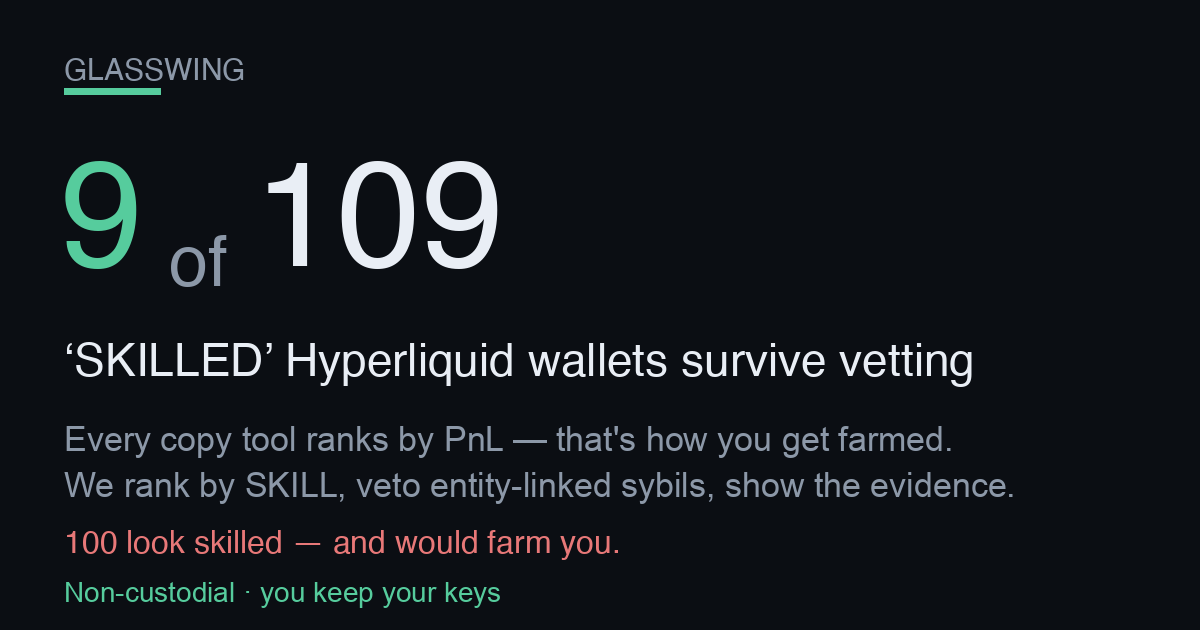
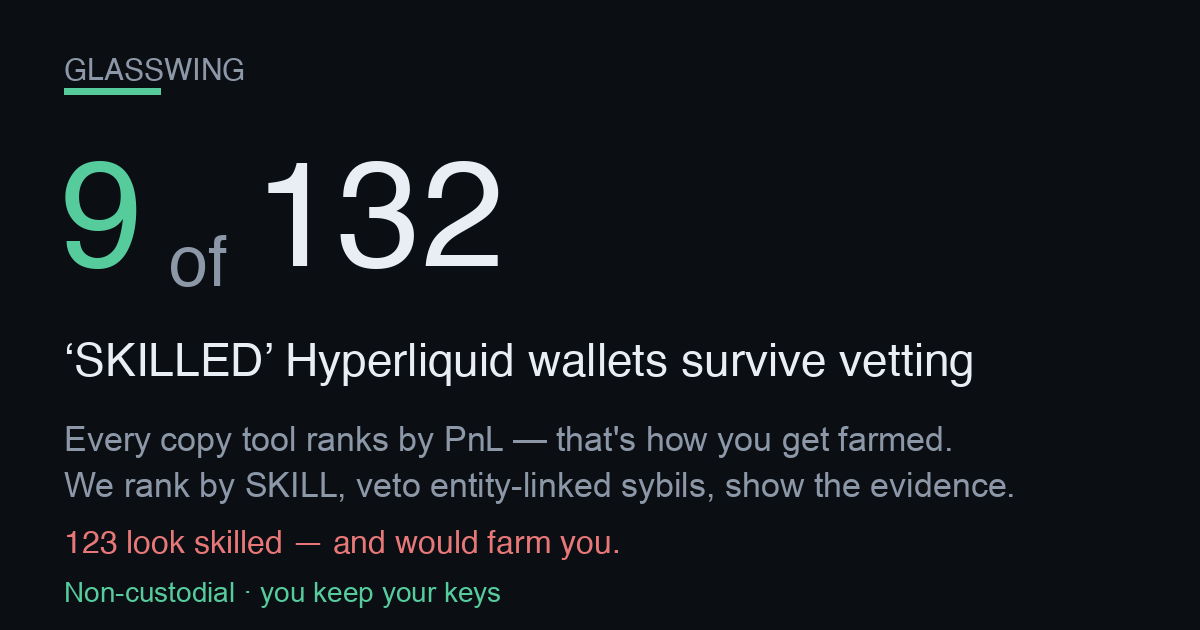
publish funnel 2026-08-02T10:34:24Z

Changed region(s): [[0.2775, 0.2714, 0.4317, 0.4524], [0.0617, 0.8444, 0.0925, 0.8746]]

diff --git a/screener.html b/screener.html
@@ -57,4 +57,4 @@ padding:11px 22px;font-size:15px;font-weight:800;border:1px solid var(--good)}
 footer{margin-top:34px;color:var(--muted);font-size:12px;line-height:1.6;
 border-top:1px solid var(--line);padding-top:16px}
 footer b{color:var(--ink)}
-</style></head><body><div class="wrap"><div class="nav"><a href="./index.html">&larr; Glasswing home</a><span class="sep">|</span><span>Edge Screener</span><span class="sep">|</span><a href="./dex.html">Copy a vetted leader</a></div><div class="hero"><h1>Hyperliquid Edge Screener</h1><div class="sub">Where&rsquo;s the carry, where a maker earns, and what&rsquo;s moving on Hyperliquid &mdash; live, computed from the public API. Bookmark it. Every number below is real and timestamped.</div><div class="stamp">Data as of <b>2026-07-31T08:14:09Z</b> &middot; rendered 2026-07-31T08:14:09Z &middot; 177 perps &middot; 88 HIP-3 (xyz) markets scanned</div></div><h2>Top funding &mdash; the carry table <span class="hint">perps ranked by annualized funding. Positive = longs pay shorts (a delta-neutral short earns it).</span></h2><div class="tblwrap"><table><thead><tr><th>Coin</th><th>Funding / hr</th><th>Annualized</th><th>Who pays</th><th>Open interest</th><th>24h volume</th></tr></thead><tbody><tr><td class="coin">CFX</td><td>-0.0626%</td><td class="neg">-548.5%</td><td><span class="tag shorts">shorts pay</span></td><td>$1.6M</td><td>$1.8M</td></tr><tr><td class="coin">ACE<span class="tag thin" title="Low liquidity/OI &mdash; ADL &amp; liquidation risk; funding can flip">&#9888; thin</span></td><td>-0.0291%</td><td class="neg">-255.3%</td><td><span class="tag shorts">shorts pay</span></td><td>$372K</td><td>$604K</td></tr><tr><td class="coin">BERA</td><td>-0.0114%</td><td class="neg">-99.9%</td><td><span class="tag shorts">shorts pay</span></td><td>$1.3M</td><td>$323K</td></tr><tr><td class="coin">W</td><td>-0.0100%</td><td class="neg">-87.2%</td><td><span class="tag shorts">shorts pay</span></td><td>$1.4M</td><td>$374K</td></tr><tr><td class="coin">SEI</td><td>-0.0070%</td><td class="neg">-61.4%</td><td><span class="tag shorts">shorts pay</span></td><td>$1.4M</td><td>$318K</td></tr><tr><td class="coin">BSV<span class="tag thin" title="Low liquidity/OI &mdash; ADL &amp; liquidation risk; funding can flip">&#9888; thin</span></td><td>-0.0056%</td><td class="neg">-48.8%</td><td><span class="tag shorts">shorts pay</span></td><td>$394K</td><td>$133K</td></tr><tr><td class="coin">MNT<span class="tag thin" title="Low liquidity/OI &mdash; ADL &amp; liquidation risk; funding can flip">&#9888; thin</span></td><td>-0.0052%</td><td class="neg">-45.8%</td><td><span class="tag shorts">shorts pay</span></td><td>$1.7M</td><td>$221K</td></tr><tr><td class="coin">GALA<span class="tag thin" title="Low liquidity/OI &mdash; ADL &amp; liquidation risk; funding can flip">&#9888; thin</span></td><td>-0.0046%</td><td class="neg">-40.4%</td><td><span class="tag shorts">shorts pay</span></td><td>$289K</td><td>$137K</td></tr><tr><td class="coin">AR<span class="tag thin" title="Low liquidity/OI &mdash; ADL &amp; liquidation risk; funding can flip">&#9888; thin</span></td><td>-0.0046%</td><td class="neg">-40.4%</td><td><span class="tag shorts">shorts pay</span></td><td>$807K</td><td>$208K</td></tr><tr><td class="coin">SAND<span class="tag thin" title="Low liquidity/OI &mdash; ADL &amp; liquidation risk; funding can flip">&#9888; thin</span></td><td>-0.0044%</td><td class="neg">-38.9%</td><td><span class="tag shorts">shorts pay</span></td><td>$314K</td><td>$174K</td></tr><tr><td class="coin">SAGA<span class="tag thin" title="Low liquidity/OI &mdash; ADL &amp; liquidation risk; funding can flip">&#9888; thin</span></td><td>+0.0042%</td><td class="pos">+36.7%</td><td><span class="tag longs">longs pay</span></td><td>$1.9M</td><td>$23K</td></tr><tr><td class="coin">LAYER<span class="tag thin" title="Low liquidity/OI &mdash; ADL &amp; liquidation risk; funding can flip">&#9888; thin</span></td><td>-0.0039%</td><td class="neg">-34.3%</td><td><span class="tag shorts">shorts pay</span></td><td>$652K</td><td>$216K</td></tr></tbody></table></div><h2>Widest HIP-3 spreads &mdash; where a maker earns <span class="hint">xyz: markets by impact-price spread vs the ~0.6bps round-trip fee. A resting limit order captures the gap.</span></h2><div class="tblwrap"><table><thead><tr><th>Market</th><th>Spread</th><th>vs 0.6bps fee</th><th>Mid</th><th>24h volume</th></tr></thead><tbody><tr><td class="coin">xyz:GIGADEV<span class="tag gm">growth</span></td><td>597.0 bps</td><td class="pos">+596.4 bps</td><td>56.7330</td><td>$593K</td></tr><tr><td class="coin">xyz:BIRD<span class="tag gm">growth</span></td><td>347.7 bps</td><td class="pos">+347.1 bps</td><td>2.3310</td><td>$247K</td></tr><tr><td class="coin">xyz:SOFTBANK<span class="tag gm">growth</span></td><td>141.6 bps</td><td class="pos">+141.0 bps</td><td>32.1890</td><td>$270K</td></tr><tr><td class="coin">xyz:KR200<span class="tag gm">growth</span></td><td>85.0 bps</td><td class="pos">+84.4 bps</td><td>1,021.45</td><td>$5.2M</td></tr><tr><td class="coin">xyz:SHAZ<span class="tag gm">growth</span></td><td>56.9 bps</td><td class="pos">+56.3 bps</td><td>50.7230</td><td>$3.6M</td></tr><tr><td class="coin">xyz:PURRDAT</td><td>54.3 bps</td><td class="pos">+53.7 bps</td><td>6.2966</td><td>$1.7M</td></tr><tr><td class="coin">xyz:URNM<span class="tag gm">growth</span></td><td>53.1 bps</td><td class="pos">+52.5 bps</td><td>49.6325</td><td>$211K</td></tr><tr><td class="coin">xyz:ZHIPU<span class="tag gm">growth</span></td><td>50.8 bps</td><td class="pos">+50.2 bps</td><td>124.9750</td><td>$19.9M</td></tr><tr><td class="coin">xyz:EBAY<span class="tag gm">growth</span></td><td>47.3 bps</td><td class="pos">+46.7 bps</td><td>114.2450</td><td>$165K</td></tr><tr><td class="coin">xyz:DKNG<span class="tag gm">growth</span></td><td>34.6 bps</td><td class="pos">+34.0 bps</td><td>24.1990</td><td>$928K</td></tr><tr><td class="coin">xyz:ZM<span class="tag gm">growth</span></td><td>34.4 bps</td><td class="pos">+33.8 bps</td><td>91.4350</td><td>$441K</td></tr><tr><td class="coin">xyz:BOT<span class="tag gm">growth</span></td><td>31.4 bps</td><td class="pos">+30.8 bps</td><td>29.7315</td><td>$916K</td></tr></tbody></table></div><h2>Momentum &amp; volume &mdash; what&rsquo;s moving <span class="hint">perps by 24h volume with the 24h price change (mark vs prior-day).</span></h2><div class="tblwrap"><table><thead><tr><th>Coin</th><th>24h volume</th><th>24h change</th><th>Mark</th></tr></thead><tbody><tr><td class="coin">BTC</td><td>$1.59B</td><td class="neg">-0.07%</td><td>63,933.00</td></tr><tr><td class="coin">ETH</td><td>$861.8M</td><td class="neg">-0.66%</td><td>1,891.60</td></tr><tr><td class="coin">HYPE</td><td>$270.9M</td><td class="pos">+1.96%</td><td>54.8018</td></tr><tr><td class="coin">SOL</td><td>$184.8M</td><td class="pos">+0.45%</td><td>73.7310</td></tr><tr><td class="coin">ZEC</td><td>$41.0M</td><td class="neg">-3.45%</td><td>458.4200</td></tr><tr><td class="coin">UNI</td><td>$28.1M</td><td class="pos">+9.08%</td><td>4.4065</td></tr><tr><td class="coin">XRP</td><td>$17.9M</td><td class="pos">+0.31%</td><td>1.0792</td></tr><tr><td class="coin">PUMP</td><td>$14.0M</td><td class="pos">+6.46%</td><td>0.002011</td></tr><tr><td class="coin">LIT</td><td>$12.7M</td><td class="neg">-0.42%</td><td>2.1751</td></tr><tr><td class="coin">BNB</td><td>$12.0M</td><td class="pos">+3.03%</td><td>592.2700</td></tr><tr><td class="coin">AAVE</td><td>$11.3M</td><td class="pos">+1.74%</td><td>98.6930</td></tr><tr><td class="coin">ONDO</td><td>$11.0M</td><td class="neg">-1.36%</td><td>0.40486</td></tr></tbody></table></div><div class="cta"><h2>These are the opportunities. Now copy the people who trade them.</h2><p class="lead">Spotting the carry and the spreads is the easy part &mdash; sizing, timing and risk are where most traders bleed. Copy the <b>skill-vetted</b> Hyperliquid leaders who actually trade these edges. Non-custodial: <b>you keep your keys and your funds</b> the entire time.</p><div class="row"><a class="btn" href="./index.html">See the vetted leaders &rarr;</a><a class="btn ghost" href="./dex.html">Start copying (non-custodial) &rarr;</a></div><div class="nc"><b>Non-custodial &amp; honest:</b> we never hold your keys or funds. Copying routes through a <b>0.01%</b> (1bp) on-chain builder fee &mdash; that is the only thing we ever charge, and it is the same fee shown on the copy page. Nothing on this screener is executed for you; it is information only.</div></div><footer><b>Not financial advice.</b> Funding rates, spreads and volumes are live snapshots that change every block; figures can be stale by the time you act. A high funding rate is <b>not free money</b> &mdash; the biggest rates sit on the thinnest, most crowded books (flagged &#9888; thin), where funding can flip against you and auto-deleveraging (ADL) or liquidation can close your position. &ldquo;Spread&rdquo; here is the impact-price spread (a conservative maker signal), not a guaranteed fill. HIP-3 markets are experimental. Do your own research and size responsibly. Glasswing is <b>non-custodial</b> &mdash; we never take custody of your keys or funds.</footer></div></body></html>
+</style></head><body><div class="wrap"><div class="nav"><a href="./index.html">&larr; Glasswing home</a><span class="sep">|</span><span>Edge Screener</span><span class="sep">|</span><a href="./dex.html">Copy a vetted leader</a></div><div class="hero"><h1>Hyperliquid Edge Screener</h1><div class="sub">Where&rsquo;s the carry, where a maker earns, and what&rsquo;s moving on Hyperliquid &mdash; live, computed from the public API. Bookmark it. Every number below is real and timestamped.</div><div class="stamp">Data as of <b>2026-08-02T10:28:26Z</b> &middot; rendered 2026-08-02T10:28:26Z &middot; 177 perps &middot; 88 HIP-3 (xyz) markets scanned</div></div><h2>Top funding &mdash; the carry table <span class="hint">perps ranked by annualized funding. Positive = longs pay shorts (a delta-neutral short earns it).</span></h2><div class="tblwrap"><table><thead><tr><th>Coin</th><th>Funding / hr</th><th>Annualized</th><th>Who pays</th><th>Open interest</th><th>24h volume</th></tr></thead><tbody><tr><td class="coin">HYPER<span class="tag thin" title="Low liquidity/OI &mdash; ADL &amp; liquidation risk; funding can flip">&#9888; thin</span></td><td>-0.2484%</td><td class="neg">-2175.7%</td><td><span class="tag shorts">shorts pay</span></td><td>$465K</td><td>$1.3M</td></tr><tr><td class="coin">STABLE</td><td>-0.0200%</td><td class="neg">-174.9%</td><td><span class="tag shorts">shorts pay</span></td><td>$2.0M</td><td>$250K</td></tr><tr><td class="coin">KAS<span class="tag thin" title="Low liquidity/OI &mdash; ADL &amp; liquidation risk; funding can flip">&#9888; thin</span></td><td>-0.0160%</td><td class="neg">-140.5%</td><td><span class="tag shorts">shorts pay</span></td><td>$1.2M</td><td>$142K</td></tr><tr><td class="coin">NIL</td><td>-0.0123%</td><td class="neg">-107.5%</td><td><span class="tag shorts">shorts pay</span></td><td>$517K</td><td>$455K</td></tr><tr><td class="coin">ACE<span class="tag thin" title="Low liquidity/OI &mdash; ADL &amp; liquidation risk; funding can flip">&#9888; thin</span></td><td>-0.0123%</td><td class="neg">-107.4%</td><td><span class="tag shorts">shorts pay</span></td><td>$406K</td><td>$760K</td></tr><tr><td class="coin">IOTA<span class="tag thin" title="Low liquidity/OI &mdash; ADL &amp; liquidation risk; funding can flip">&#9888; thin</span></td><td>-0.0112%</td><td class="neg">-98.5%</td><td><span class="tag shorts">shorts pay</span></td><td>$408K</td><td>$78K</td></tr><tr><td class="coin">BSV<span class="tag thin" title="Low liquidity/OI &mdash; ADL &amp; liquidation risk; funding can flip">&#9888; thin</span></td><td>-0.0104%</td><td class="neg">-90.8%</td><td><span class="tag shorts">shorts pay</span></td><td>$427K</td><td>$81K</td></tr><tr><td class="coin">MORPHO</td><td>-0.0089%</td><td class="neg">-77.5%</td><td><span class="tag shorts">shorts pay</span></td><td>$3.8M</td><td>$600K</td></tr><tr><td class="coin">PROVE<span class="tag thin" title="Low liquidity/OI &mdash; ADL &amp; liquidation risk; funding can flip">&#9888; thin</span></td><td>-0.0055%</td><td class="neg">-48.4%</td><td><span class="tag shorts">shorts pay</span></td><td>$232K</td><td>$96K</td></tr><tr><td class="coin">INJ</td><td>-0.0052%</td><td class="neg">-45.1%</td><td><span class="tag shorts">shorts pay</span></td><td>$3.6M</td><td>$690K</td></tr><tr><td class="coin">MINA<span class="tag thin" title="Low liquidity/OI &mdash; ADL &amp; liquidation risk; funding can flip">&#9888; thin</span></td><td>-0.0049%</td><td class="neg">-42.8%</td><td><span class="tag shorts">shorts pay</span></td><td>$715K</td><td>$100K</td></tr><tr><td class="coin">IO<span class="tag thin" title="Low liquidity/OI &mdash; ADL &amp; liquidation risk; funding can flip">&#9888; thin</span></td><td>-0.0048%</td><td class="neg">-42.3%</td><td><span class="tag shorts">shorts pay</span></td><td>$489K</td><td>$111K</td></tr></tbody></table></div><h2>Widest HIP-3 spreads &mdash; where a maker earns <span class="hint">xyz: markets by impact-price spread vs the ~0.6bps round-trip fee. A resting limit order captures the gap.</span></h2><div class="tblwrap"><table><thead><tr><th>Market</th><th>Spread</th><th>vs 0.6bps fee</th><th>Mid</th><th>24h volume</th></tr></thead><tbody><tr><td class="coin">xyz:GIGADEV<span class="tag gm">growth</span></td><td>255.8 bps</td><td class="pos">+255.2 bps</td><td>54.7025</td><td>$17K</td></tr><tr><td class="coin">xyz:SOFTBANK<span class="tag gm">growth</span></td><td>160.0 bps</td><td class="pos">+159.4 bps</td><td>31.0180</td><td>$15K</td></tr><tr><td class="coin">xyz:BIRD<span class="tag gm">growth</span></td><td>147.9 bps</td><td class="pos">+147.3 bps</td><td>2.2456</td><td>$9K</td></tr><tr><td class="coin">xyz:EWZ<span class="tag gm">growth</span></td><td>111.9 bps</td><td class="pos">+111.3 bps</td><td>37.2010</td><td>$332K</td></tr><tr><td class="coin">xyz:JP225<span class="tag gm">growth</span></td><td>101.0 bps</td><td class="pos">+100.4 bps</td><td>63,927.00</td><td>$516K</td></tr><tr><td class="coin">xyz:PURRDAT</td><td>93.2 bps</td><td class="pos">+92.6 bps</td><td>6.0728</td><td>$171K</td></tr><tr><td class="coin">xyz:URNM<span class="tag gm">growth</span></td><td>76.0 bps</td><td class="pos">+75.4 bps</td><td>48.9050</td><td>$46K</td></tr><tr><td class="coin">xyz:HIMS<span class="tag gm">growth</span></td><td>75.7 bps</td><td class="pos">+75.1 bps</td><td>28.1995</td><td>$105K</td></tr><tr><td class="coin">xyz:BOT<span class="tag gm">growth</span></td><td>68.2 bps</td><td class="pos">+67.6 bps</td><td>26.1785</td><td>$116K</td></tr><tr><td class="coin">xyz:KR200<span class="tag gm">growth</span></td><td>60.3 bps</td><td class="pos">+59.7 bps</td><td>1,007.35</td><td>$198K</td></tr><tr><td class="coin">xyz:GME<span class="tag gm">growth</span></td><td>59.6 bps</td><td class="pos">+59.0 bps</td><td>21.7665</td><td>$20K</td></tr><tr><td class="coin">xyz:MINIMAX<span class="tag gm">growth</span></td><td>55.3 bps</td><td class="pos">+54.7 bps</td><td>29.2195</td><td>$416K</td></tr></tbody></table></div><h2>Momentum &amp; volume &mdash; what&rsquo;s moving <span class="hint">perps by 24h volume with the 24h price change (mark vs prior-day).</span></h2><div class="tblwrap"><table><thead><tr><th>Coin</th><th>24h volume</th><th>24h change</th><th>Mark</th></tr></thead><tbody><tr><td class="coin">BTC</td><td>$1.06B</td><td class="pos">+0.15%</td><td>63,105.00</td></tr><tr><td class="coin">ETH</td><td>$558.5M</td><td class="pos">+0.02%</td><td>1,865.00</td></tr><tr><td class="coin">HYPE</td><td>$151.6M</td><td class="neg">-1.48%</td><td>51.2710</td></tr><tr><td class="coin">SOL</td><td>$93.0M</td><td class="pos">+0.47%</td><td>73.1500</td></tr><tr><td class="coin">ZEC</td><td>$39.1M</td><td class="pos">+2.26%</td><td>473.7700</td></tr><tr><td class="coin">PUMP</td><td>$25.6M</td><td class="neg">-0.42%</td><td>0.002156</td></tr><tr><td class="coin">XRP</td><td>$16.3M</td><td class="pos">+1.59%</td><td>1.0792</td></tr><tr><td class="coin">DOGE</td><td>$10.7M</td><td class="pos">+0.36%</td><td>0.069923</td></tr><tr><td class="coin">KAITO</td><td>$10.1M</td><td class="pos">+11.96%</td><td>1.2077</td></tr><tr><td class="coin">FARTCOIN</td><td>$9.3M</td><td class="neg">-0.05%</td><td>0.12954</td></tr><tr><td class="coin">AAVE</td><td>$9.1M</td><td class="pos">+1.65%</td><td>92.1070</td></tr><tr><td class="coin">LIT</td><td>$9.0M</td><td class="pos">+2.91%</td><td>2.0954</td></tr></tbody></table></div><div class="cta"><h2>These are the opportunities. Now copy the people who trade them.</h2><p class="lead">Spotting the carry and the spreads is the easy part &mdash; sizing, timing and risk are where most traders bleed. Copy the <b>skill-vetted</b> Hyperliquid leaders who actually trade these edges. Non-custodial: <b>you keep your keys and your funds</b> the entire time.</p><div class="row"><a class="btn" href="./index.html">See the vetted leaders &rarr;</a><a class="btn ghost" href="./dex.html">Start copying (non-custodial) &rarr;</a></div><div class="nc"><b>Non-custodial &amp; honest:</b> we never hold your keys or funds. Copying routes through a <b>0.01%</b> (1bp) on-chain builder fee &mdash; that is the only thing we ever charge, and it is the same fee shown on the copy page. Nothing on this screener is executed for you; it is information only.</div></div><footer><b>Not financial advice.</b> Funding rates, spreads and volumes are live snapshots that change every block; figures can be stale by the time you act. A high funding rate is <b>not free money</b> &mdash; the biggest rates sit on the thinnest, most crowded books (flagged &#9888; thin), where funding can flip against you and auto-deleveraging (ADL) or liquidation can close your position. &ldquo;Spread&rdquo; here is the impact-price spread (a conservative maker signal), not a guaranteed fill. HIP-3 markets are experimental. Do your own research and size responsibly. Glasswing is <b>non-custodial</b> &mdash; we never take custody of your keys or funds.</footer></div></body></html>

diff --git a/track.html b/track.html
@@ -62,35 +62,35 @@ font-weight:600;font-size:14px}
 <div class="wrap">
   <div class="hero">
     <h1>Self-verifying on-chain track record</h1>
-    <div class="big">$120.89</div>
+    <div class="big">$266.70</div>
     <div class="sub">current on-chain equity (perp + vault + spot USDC)</div>
     <div class="addr">0xbe6C1b09662BbE52CC93279D103Feb27985DdBc1</div>
-    <div class="stage early">12 days live — EARLY / NOT YET A MATURE RECORD</div>
+    <div class="stage early">14 days live — EARLY / NOT YET A MATURE RECORD</div>
   </div>
 
-  <div class="warnbar">EARLY-STAGE: this record is only 12 days live. It is NOT a mature track record and NOT an APR promise. We deliberately do not annualize a sample this young. Verify every figure yourself below.</div>
+  <div class="warnbar">EARLY-STAGE: this record is only 14 days live. It is NOT a mature track record and NOT an APR promise. We deliberately do not annualize a sample this young. Verify every figure yourself below.</div>
 
   <h2>On-chain figures <span style="color:var(--muted);font-weight:400;font-size:13px">
   &mdash; every one reproducible from the public info API</span></h2>
-  <table><tbody><tr><td class="k">On-chain equity (perp + vault + spot USDC)</td><td class="v">$120.89</td></tr><tr><td class="k">Perp account value</td><td class="v">$70.79</td></tr><tr><td class="k">Vault equity</td><td class="v">$50.08</td></tr><tr><td class="k">Spot USDC</td><td class="v">$0.02</td></tr><tr><td class="k">Withdrawable</td><td class="v">$62.00</td></tr></tbody></table>
+  <table><tbody><tr><td class="k">On-chain equity (perp + vault + spot USDC)</td><td class="v">$266.70</td></tr><tr><td class="k">Perp account value</td><td class="v">$216.26</td></tr><tr><td class="k">Vault equity</td><td class="v">$49.89</td></tr><tr><td class="k">Spot USDC</td><td class="v">$0.55</td></tr><tr><td class="k">Withdrawable</td><td class="v">$207.67</td></tr></tbody></table>
 
-  <h2>Vault deposits (on-chain)</h2><table><thead><tr><th>Vault address</th><th>Our equity</th></tr></thead><tbody><tr><td class="mono">0x2431edfcb662e6ff6deab113cc91878a0b53fb0f</td><td class="v">$0.01</td></tr><tr><td class="mono">0x697bc3dd77539fa84156d0e1c95287ea5524fd6b</td><td class="v">$26.00</td></tr><tr><td class="mono">0x8825e6ed11c7f9c0874579c9f4bba192b9e81c8f</td><td class="v">$0.12</td></tr><tr><td class="mono">0xc71f5a493b937e4b1798b86510630336a6dfd804</td><td class="v">$23.95</td></tr></tbody></table>
+  <h2>Vault deposits (on-chain)</h2><table><thead><tr><th>Vault address</th><th>Our equity</th></tr></thead><tbody><tr><td class="mono">0x2431edfcb662e6ff6deab113cc91878a0b53fb0f</td><td class="v">$0.01</td></tr><tr><td class="mono">0x697bc3dd77539fa84156d0e1c95287ea5524fd6b</td><td class="v">$26.13</td></tr><tr><td class="mono">0x8825e6ed11c7f9c0874579c9f4bba192b9e81c8f</td><td class="v">$0.12</td></tr><tr><td class="mono">0xc71f5a493b937e4b1798b86510630336a6dfd804</td><td class="v">$23.63</td></tr></tbody></table>
 
   <h2>Performance <span style="color:var(--muted);font-weight:400;font-size:13px">
   &mdash; honest stage, no annualization</span></h2>
-  <table><tbody><tr><td class="k">Days live (our formal record)</td><td class="v">12</td></tr><tr><td class="k">Maturity</td><td class="v">EARLY / NOT YET A MATURE RECORD</td></tr><tr><td class="k">Current real strategy income / day</td><td class="v">$0.0596</td></tr><tr><td class="k">Cumulative net income (if attributed)</td><td class="v">$0.7071</td></tr><tr><td class="k">Annualized APR</td><td class="v">intentionally NOT computed (record too young)</td></tr></tbody></table>
+  <table><tbody><tr><td class="k">Days live (our formal record)</td><td class="v">14</td></tr><tr><td class="k">Maturity</td><td class="v">EARLY / NOT YET A MATURE RECORD</td></tr><tr><td class="k">Current real strategy income / day</td><td class="v">$0.0468</td></tr><tr><td class="k">Cumulative net income (if attributed)</td><td class="v">$0.7375</td></tr><tr><td class="k">Annualized APR</td><td class="v">intentionally NOT computed (record too young)</td></tr></tbody></table>
 
   <h2>Strategy arms <span style="color:var(--muted);font-weight:400;font-size:13px">
   &mdash; internal marks, cross-checkable against chain equity</span></h2>
-  <table><thead><tr><th>Arm</th><th>Status</th><th>Real / day</th><th>Note</th></tr></thead><tbody><tr><td class="v">carry</td><td><span class="badge off">—</span></td><td class="v">$0.0596</td><td class="k"></td></tr><tr><td class="v">copy</td><td><span class="badge live">live</span></td><td class="v">$0.0000</td><td class="k"></td></tr><tr><td class="v">builder</td><td><span class="badge off">—</span></td><td class="v">$0.0000</td><td class="k">proven live; $0 until distributed (∝ users&#x27; volume)</td></tr></tbody></table>
+  <table><thead><tr><th>Arm</th><th>Status</th><th>Real / day</th><th>Note</th></tr></thead><tbody><tr><td class="v">carry</td><td><span class="badge off">—</span></td><td class="v">$0.0468</td><td class="k"></td></tr><tr><td class="v">copy</td><td><span class="badge live">live</span></td><td class="v">$0.0000</td><td class="k"></td></tr><tr><td class="v">builder</td><td><span class="badge off">—</span></td><td class="v">$0.0000</td><td class="k">proven live; $0 until distributed (∝ users&#x27; volume)</td></tr></tbody></table>
 
   <h2>Reproduce it</h2>
   <div class="verify"><h3>Verify this yourself</h3><p>These are PUBLIC calls. Run them yourself against the address below and you will re-derive every on-chain figure on this page. equity_usd = perp accountValue + vault equity + spot USDC. Endpoint: https://api.hyperliquid.xyz/info</p><div class="cn">clearinghouseState &rarr; marginSummary.accountValue (perp value), withdrawable, marginSummary.totalMarginUsed</div><pre>curl -s -X POST https://api.hyperliquid.xyz/info -H &#x27;Content-Type: application/json&#x27; -d &#x27;{&quot;type&quot;: &quot;clearinghouseState&quot;, &quot;user&quot;: &quot;0xbe6C1b09662BbE52CC93279D103Feb27985DdBc1&quot;}&#x27;</pre><div class="cn">userVaultEquities &rarr; sum of each entry&#x27;s equity (our vault deposits)</div><pre>curl -s -X POST https://api.hyperliquid.xyz/info -H &#x27;Content-Type: application/json&#x27; -d &#x27;{&quot;type&quot;: &quot;userVaultEquities&quot;, &quot;user&quot;: &quot;0xbe6C1b09662BbE52CC93279D103Feb27985DdBc1&quot;}&#x27;</pre><div class="cn">spotClearinghouseState &rarr; balances[] where coin==USDC -&gt; total (spot USDC)</div><pre>curl -s -X POST https://api.hyperliquid.xyz/info -H &#x27;Content-Type: application/json&#x27; -d &#x27;{&quot;type&quot;: &quot;spotClearinghouseState&quot;, &quot;user&quot;: &quot;0xbe6C1b09662BbE52CC93279D103Feb27985DdBc1&quot;}&#x27;</pre></div>
 
   <footer>
     <div>Self-verifying: every on-chain figure is reproducible by querying Hyperliquid&#x27;s public info API for the stated address. Internal daily marks are cross-checkable against on-chain equity. EARLY-STAGE record — not a mature track record, not an APR promise, not financial advice. Past performance != future results.</div>
-    <div class="stamp">Generated at 2026-07-31T08:11:46Z &middot; internal marks
-    mtime 2026-07-31T04:54:52Z &middot; static receipt, no live
+    <div class="stamp">Generated at 2026-08-02T10:24:36Z &middot; internal marks
+    mtime 2026-08-02T04:56:39Z &middot; static receipt, no live
     authority — this page never trades or arms.</div>
   </footer>
 </div>

diff --git a/index.html b/index.html
@@ -3,8 +3,8 @@
 <head>
 <meta charset="utf-8">
 <meta name="viewport" content="width=device-width, initial-scale=1">
-<title>9 of 109 SKILLED Hyperliquid wallets survive vetting</title>
-<meta name="description" content="9 of 109 leaderboard-SKILLED Hyperliquid wallets survive vetting. Copy only the survivors, non-custodial — you keep your keys and funds.">
+<title>9 of 132 SKILLED Hyperliquid wallets survive vetting</title>
+<meta name="description" content="9 of 132 leaderboard-SKILLED Hyperliquid wallets survive vetting. Copy only the survivors, non-custodial — you keep your keys and funds.">
 <link rel="canonical" href="https://dynobit.github.io/glasswing/">
 <meta name="robots" content="index,follow">
 <meta name="theme-color" content="#0b0e13">
@@ -14,14 +14,14 @@
      head, not this. og:url is the canonical Pages home so every share resolves here. -->
 <meta property="og:type" content="website">
 <meta property="og:site_name" content="Glasswing">
-<meta property="og:title" content="9 of 109 SKILLED Hyperliquid wallets survive vetting">
+<meta property="og:title" content="9 of 132 SKILLED Hyperliquid wallets survive vetting">
 <meta property="og:description" content="Every copy tool ranks leaders by PnL — which is how you get farmed. This ranks by SKILL, then vetoes entity-linked sybils, and shows the evidence for every reject. Non-custodial: you keep your keys.">
 <meta property="og:url" content="https://dynobit.github.io/glasswing/">
 <meta property="og:image" content="https://dynobit.github.io/glasswing/og-card.png">
 <meta property="og:image:width" content="1200">
 <meta property="og:image:height" content="630">
 <meta name="twitter:card" content="summary_large_image">
-<meta name="twitter:title" content="9 of 109 SKILLED Hyperliquid wallets survive vetting">
+<meta name="twitter:title" content="9 of 132 SKILLED Hyperliquid wallets survive vetting">
 <meta name="twitter:description" content="Skill-ranked (not PnL-ranked) HL copy-leaders, entity-linked sybils vetoed with evidence. Non-custodial.">
 <meta name="twitter:image" content="https://dynobit.github.io/glasswing/og-card.png">
 <style>
@@ -135,18 +135,18 @@ footer .nc{color:var(--good);font-weight:600}
 
   <!-- 1. HERO — the shareable hook (screenshot-worthy) -->
   <div class="hero">
-    <h1><span class="big">9 of 109</span> &lsquo;SKILLED&rsquo;
+    <h1><span class="big">9 of 132</span> &lsquo;SKILLED&rsquo;
     Hyperliquid wallets survive vetting</h1>
-    <div class="sub">The other <span class="trap">100</span> look skilled on a
+    <div class="sub">The other <span class="trap">123</span> look skilled on a
     raw copy leaderboard but would farm you &mdash; here are the
-    <span class="trap">100</span> that would. Entity-linked sybils,
-    wash-traded track records, or simply unscreened. 8.3% survive.
-    Universe: 948 scored wallets.</div>
+    <span class="trap">123</span> that would. Entity-linked sybils,
+    wash-traded track records, or simply unscreened. 6.8% survive.
+    Universe: 1095 scored wallets.</div>
   </div>
 
   <!-- 2. THE WEDGE — the marketing (why us, not any other copy tool) -->
   <div class="wedge"><span class="them">Every other copy tool ranks all
-    109 by PnL and calls it a leaderboard.</span> We are the only one that
+    132 by PnL and calls it a leaderboard.</span> We are the only one that
     <b>flags the entity-linked and farming wallets with on-chain evidence</b> &mdash;
     transfer-graph linkage between wallets and arXiv memecoin farm-features &mdash;
     and shows you only the 9 that survive. A high PnL is exactly what a
@@ -268,7 +268,7 @@ footer .nc{color:var(--good);font-weight:600}
   <footer>
     <div class="nc">Non-custodial: we never hold your keys or funds. No server, no backend. Your browser talks only to Hyperliquid&#x27;s public API.</div>
     <div>Advisory. Skill = sign-randomization null vs luck. Entity veto = public transfer-graph linkage. Farm screen = arXiv:2601.08641 features (memecoin thresholds, HL-uncalibrated). Follower-realizable PnL is NOT yet proven — a PRE-COMMITTED forward test is in progress (0/2 windows, earliest 2026-08-13); the copyability claim publishes only when the pre-registered windows close, so it cannot be discovery-mined. Exit-alpha shown is advisory. Not financial advice.</div>
-    <div class="stamp">Generated at 2026-07-31T08:12:29Z &middot; single-file funnel,
+    <div class="stamp">Generated at 2026-08-02T10:25:56Z &middot; single-file funnel,
     no live authority. In-browser order signing is IMPLEMENTED (real secp256k1 +
     keccak + msgpack EIP-712 from a pinned CDN) but UNVALIDATED against Hyperliquid:
     mainnet is blocked until a testnet order is proven accepted.</div>

diff --git a/dex.html b/dex.html
@@ -112,8 +112,8 @@ footer .nc{color:var(--good);font-weight:600}
     funds and your keys the whole time. Two signatures in your own wallet, an
     ephemeral in-browser agent key that can trade but never withdraw, and a
     client-side loop that mirrors only the
-    <b>9 of 109</b> vetted survivors
-    (universe: 948 scored wallets). No server, no backend.</div>
+    <b>9 of 132</b> vetted survivors
+    (universe: 1095 scored wallets). No server, no backend.</div>
     <div class="tag">static bundle &middot; IPFS-publishable &middot; revenue accrues on-chain</div>
   </div>
 
@@ -217,7 +217,7 @@ footer .nc{color:var(--good);font-weight:600}
   <footer>
     <div class="nc">Pure DEX, self-custodial. No server, no backend, no key we ever hold. Your browser talks only to Hyperliquid&#x27;s public API.</div>
     <div>Advisory. Skill = sign-randomization null vs luck. Entity veto = public transfer-graph linkage. Farm screen = arXiv:2601.08641 features (memecoin thresholds, HL-uncalibrated). Follower-realizable PnL is NOT yet proven — a PRE-COMMITTED forward test is in progress (0/2 windows, earliest 2026-08-13); the copyability claim publishes only when the pre-registered windows close, so it cannot be discovery-mined. Exit-alpha shown is advisory. Not financial advice.</div>
-    <div class="stamp">Generated at 2026-07-31T08:12:29Z &middot; static,
+    <div class="stamp">Generated at 2026-08-02T10:25:56Z &middot; static,
     self-custodial surface, no live authority. In-browser order signing is
     IMPLEMENTED (real secp256k1 + keccak + msgpack EIP-712 from a pinned CDN) but
     UNVALIDATED against Hyperliquid: mainnet is blocked until a testnet order is
